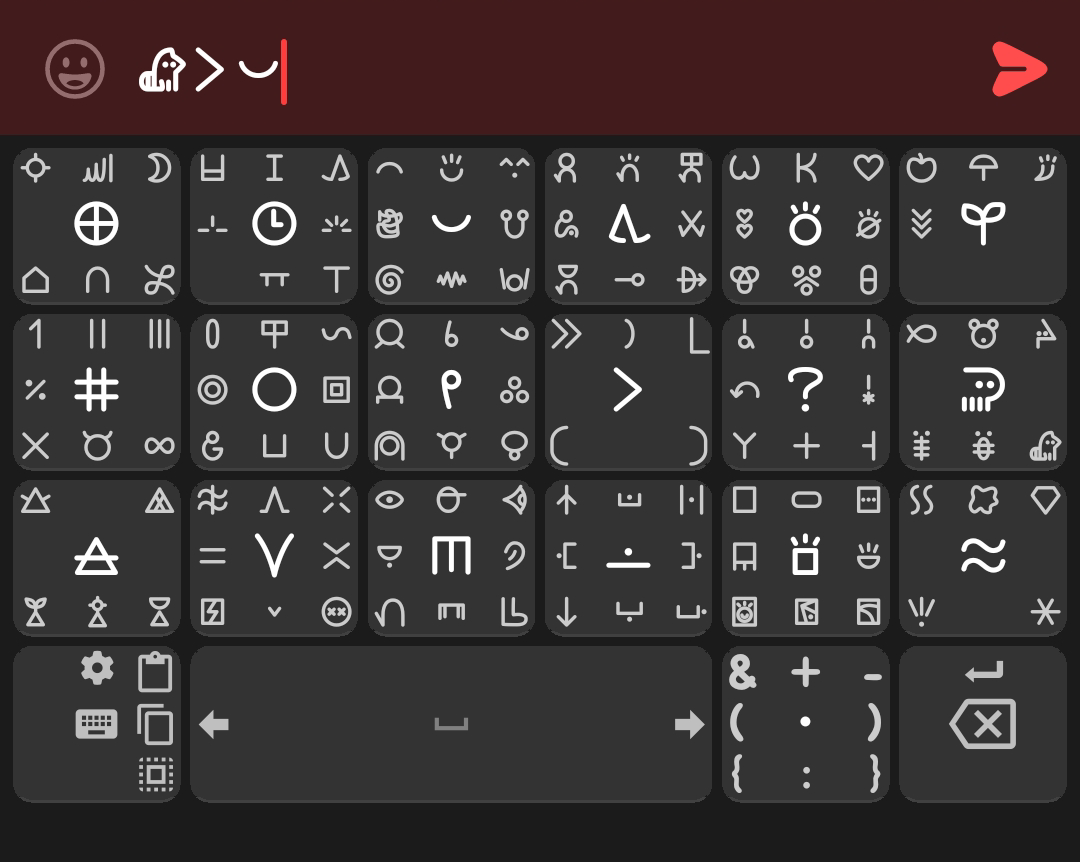
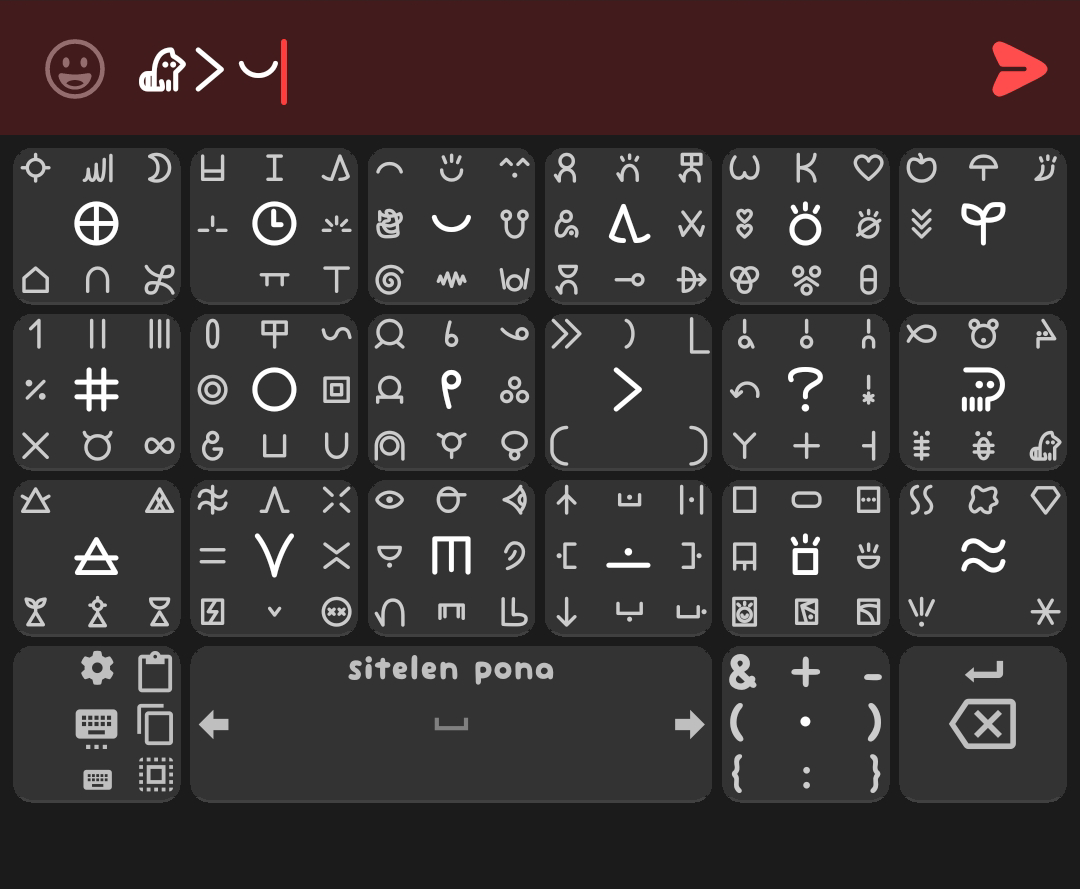
add sitelen-toki pona keyboard

diff --git a/README.md b/README.md
@@ -1,18 +1,3 @@
-# sitelen pona (nasin nanpa UCSUR)
-
-tested on [Unexpected Keyboard 1.30.3](https://github.com/Julow/Unexpected-Keyboard/releases/tag/1.30.3) with [nasin nanpa 4.0.2](https://github.com/etbcor/nasin-nanpa/releases/tag/n4.0.2)
-
-6x4 sitelen pona keyboard whith groups of 5-9 glyphs in each
-
-features:
-- basic toki pona words with some additions, sorted into groups
-- [invisible characters](https://github.com/etbcor/nasin-nanpa?tab=readme-ov-file#ligatures) & + - ( ) { }
-- brackets for nimi
-- scrollable spacebar
-- select, copy and paste buttons
-
-note: pi uses long underline glyph so it should to be closed by ) to stop underline
-
-[layout xml](sitelen-pona-nasin-nanpa-ucsur.xml)
-
-![](screenshots/sitelen-pona-nasin-nanpa-ucsur.png)
+|toki pona (with sitelen pona buttons)|sitelen pona (nasin nanpa UCSUR)|
+|-|-|
+|tested on [Unexpected Keyboard 1.30.3](https://github.com/Julow/Unexpected-Keyboard/releases/tag/1.30.3) with [nasin nanpa 4.0.2](https://github.com/etbcor/nasin-nanpa/releases/tag/n4.0.2)<br><br>6x4 sitelen pona keyboard whith groups of 5-9 glyphs in each<br><br>features:<br>- basic toki pona words with some additions, sorted into groups<br>- scrollable spacebar<br>- select, copy and paste buttons<br><br>[layout xml](sitelen-toki-pona.xml)<br><br>![](screenshots/sitelen-toki-pona.png)|tested on [Unexpected Keyboard 1.30.3](https://github.com/Julow/Unexpected-Keyboard/releases/tag/1.30.3) with [nasin nanpa 4.0.2](https://github.com/etbcor/nasin-nanpa/releases/tag/n4.0.2)<br><br>6x4 sitelen pona keyboard whith groups of 5-9 glyphs in each<br><br>features:<br>- basic toki pona words with some additions, sorted into groups<br>- [invisible characters](https://github.com/etbcor/nasin-nanpa?tab=readme-ov-file#ligatures) & + - ( ) { }<br>- brackets for nimi<br>- scrollable spacebar<br>- select, copy and paste buttons<br><br>note: pi uses long underline glyph so it should to be closed by ) to stop underline<br><br>[layout xml](sitelen-pona-nasin-nanpa-ucsur.xml)<br><br>![](screenshots/sitelen-pona-nasin-nanpa-ucsur.png)<br>|
